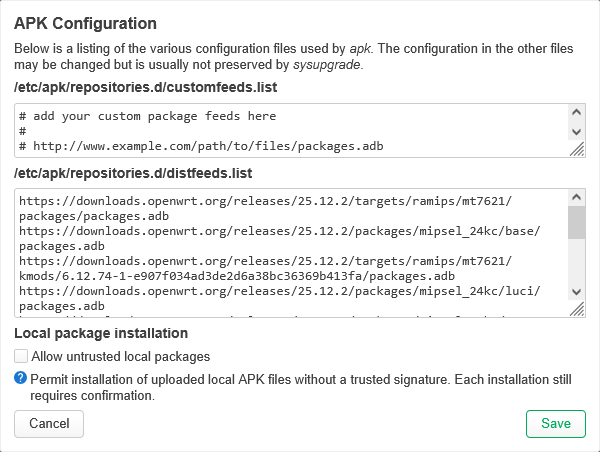
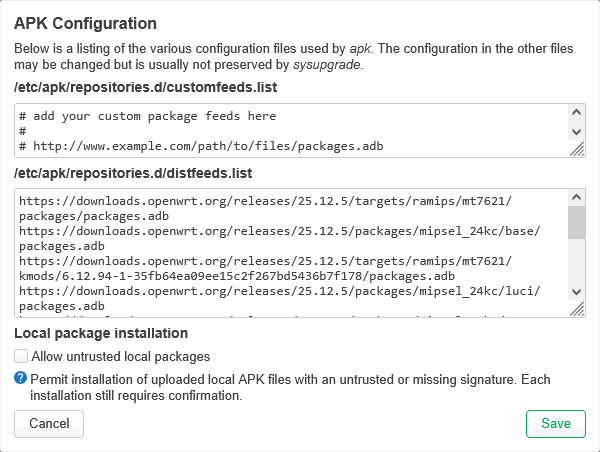
release: prepare OpenWrt 25.12 r2
Update the cumulative patch to signed source e1fb46d, refresh the
OpenWrt 25.12.5 screenshots, and record the exact r2 build and runtime
validation results.

diff --git a/README.md b/README.md
@@ -16,10 +16,10 @@ package maintainer script. The released APK is a rebuilt
 | --- | --- |
 | OpenWrt release line | 25.12 |
 | Upstream base | [`067535eaf51a59582b775a8b588a9b05810f8030`](https://github.com/openwrt/luci/commit/067535eaf51a59582b775a8b588a9b05810f8030) |
-| Patched source | [`4836c113cdbd8c01b4586970d9471541084aaaec`](https://github.com/RzandAl/luci/commit/4836c113cdbd8c01b4586970d9471541084aaaec) |
-| Release tag | `openwrt-25.12-067535e-r1` |
-| APK package version | `26.272.39633~4836c11` |
-| Release APK asset | `luci-app-package-manager-openwrt-25.12-067535e-r1.apk` |
+| Patched source | [`e1fb46d3ecae5ede2eabcfe1792697ac734bb07a`](https://github.com/RzandAl/luci/commit/e1fb46d3ecae5ede2eabcfe1792697ac734bb07a) |
+| Release tag | `openwrt-25.12-067535e-r2` |
+| APK package version | `26.278.01645~e1fb46d` |
+| Release APK asset | `luci-app-package-manager-openwrt-25.12-067535e-r2.apk` |
 | Package architecture | `noarch` |
 
 ## What the patch changes
@@ -30,6 +30,8 @@ package maintainer script. The released APK is a rebuilt
 - Keeps the setting disabled by default.
 - Shows the current **Blocked** or **Allowed** state on the Software page.
 - Keeps the existing confirmation dialog for every uploaded package.
+- Reloads the persisted UCI value if saving the setting fails, so the displayed
+  state cannot remain out of sync with the backend.
 - Adds `--allow-untrusted` and `--force-non-repository` in the backend only
   when all of the following are true:
   - the package manager is `apk`;
@@ -47,8 +49,9 @@ package maintainer script. The released APK is a rebuilt
 | --- | --- |
 | Target | OpenWrt 25.12 with APK |
 | Build | Official OpenWrt 25.12.5 SDK for `ramips/mt7621` |
-| Runtime — Xiaomi Mi Router 3G | OpenWrt 25.12.2 and 25.12.5 (`ramips/mt7621`) |
-| Runtime — Cudy WR3000S v1 | OpenWrt 25.12.5 (`mediatek/filogic`) |
+| Runtime — Xiaomi Mi Router 3G | r2 on OpenWrt 25.12.5; r1 baseline on 25.12.2 (`ramips/mt7621`) |
+| Runtime — Cudy WR3000S v1 | r1 baseline on OpenWrt 25.12.5 (`mediatek/filogic`) |
+| Browser UI | Firefox, Chrome, and Microsoft Edge |
 | Validation | Blocked by default; explicit opt-in and per-upload confirmation required |
 
 The released APK is architecture-independent (`noarch`). Compatibility outside
@@ -97,11 +100,11 @@ The backend scope and operations that remain unaffected are documented in
 ## Release packages
 
 Assets for
-[`openwrt-25.12-067535e-r1`](https://github.com/RzandAl/luci-app-package-manager-untrusted-apk/releases/tag/openwrt-25.12-067535e-r1):
+[`openwrt-25.12-067535e-r2`](https://github.com/RzandAl/luci-app-package-manager-untrusted-apk/releases/tag/openwrt-25.12-067535e-r2):
 
-- [`luci-app-package-manager-openwrt-25.12-067535e-r1.apk`](https://github.com/RzandAl/luci-app-package-manager-untrusted-apk/releases/download/openwrt-25.12-067535e-r1/luci-app-package-manager-openwrt-25.12-067535e-r1.apk)
-- [`luci-app-package-manager-untrusted-upload-067535e.patch`](https://github.com/RzandAl/luci-app-package-manager-untrusted-apk/releases/download/openwrt-25.12-067535e-r1/luci-app-package-manager-untrusted-upload-067535e.patch)
-- [`SHA256SUMS`](https://github.com/RzandAl/luci-app-package-manager-untrusted-apk/releases/download/openwrt-25.12-067535e-r1/SHA256SUMS)
+- [`luci-app-package-manager-openwrt-25.12-067535e-r2.apk`](https://github.com/RzandAl/luci-app-package-manager-untrusted-apk/releases/download/openwrt-25.12-067535e-r2/luci-app-package-manager-openwrt-25.12-067535e-r2.apk)
+- [`luci-app-package-manager-untrusted-upload-067535e.patch`](https://github.com/RzandAl/luci-app-package-manager-untrusted-apk/releases/download/openwrt-25.12-067535e-r2/luci-app-package-manager-untrusted-upload-067535e.patch)
+- [`SHA256SUMS`](https://github.com/RzandAl/luci-app-package-manager-untrusted-apk/releases/download/openwrt-25.12-067535e-r2/SHA256SUMS)
 
 The APK is intentionally untrusted. Verify `SHA256SUMS` and perform the first
 installation from a terminal; see [Installation and rollback](docs/INSTALLATION.md)
@@ -117,10 +120,11 @@ for the complete procedure.
 
 ## Tests and validation
 
-The `r1` release validation covered exact source and patch provenance, clean
+The `r2` release validation covered exact source and patch provenance, clean
 standalone patch application, APK metadata and payload inspection, release
-checksums, and runtime behavior on the devices listed in
-[Compatibility](#compatibility).
+checksums, and the complete blocked and allowed runtime paths on OpenWrt 25.12.5.
+Earlier r1 device results are retained separately in
+[Compatibility](#compatibility) instead of being attributed to the r2 binary.
 
 The complete recorded scope is in [Release validation](docs/VALIDATION.md),
 with reproduction commands in [BUILDING.md](docs/BUILDING.md). The repository CI
@@ -131,7 +135,7 @@ also repeats clean patch application and syntax validation on every change.
 - Development branch:
   [`fix/package-manager-untrusted-upload-067535e`](https://github.com/RzandAl/luci/tree/fix/package-manager-untrusted-upload-067535e)
 - Exact signed commit:
-  [`4836c113cdbd8c01b4586970d9471541084aaaec`](https://github.com/RzandAl/luci/commit/4836c113cdbd8c01b4586970d9471541084aaaec)
+  [`e1fb46d3ecae5ede2eabcfe1792697ac734bb07a`](https://github.com/RzandAl/luci/commit/e1fb46d3ecae5ede2eabcfe1792697ac734bb07a)
 - Standalone source patch:
   [`patches/luci-app-package-manager-untrusted-upload-067535e.patch`](patches/luci-app-package-manager-untrusted-upload-067535e.patch)
 - Related upstream report:

diff --git a/docs/VALIDATION.md b/docs/VALIDATION.md
@@ -1,7 +1,7 @@
 # Release validation
 
 This document records the validation scope for release
-`openwrt-25.12-067535e-r1`. It is a release record, not a compatibility claim
+`openwrt-25.12-067535e-r2`. It is a release record, not a compatibility claim
 for later OpenWrt or LuCI revisions.
 
 ## Environment matrix
@@ -9,8 +9,10 @@ for later OpenWrt or LuCI revisions.
 | Area | Environment |
 | --- | --- |
 | Build | Official OpenWrt 25.12.5 SDK for `ramips/mt7621` |
-| Runtime — Xiaomi Mi Router 3G | OpenWrt 25.12.2 and 25.12.5 (`ramips/mt7621`) |
-| Runtime — Cudy WR3000S v1 | OpenWrt 25.12.5 (`mediatek/filogic`) |
+| r2 runtime — Xiaomi Mi Router 3G | OpenWrt 25.12.5 (`ramips/mt7621`) |
+| Earlier r1 baseline — Xiaomi Mi Router 3G | OpenWrt 25.12.2 (`ramips/mt7621`) |
+| Earlier r1 baseline — Cudy WR3000S v1 | OpenWrt 25.12.5 (`mediatek/filogic`) |
+| Browser UI | Firefox, Chrome, and Microsoft Edge |
 
 The resulting package reports `arch: noarch`; the target SDK was still used to
 resolve and validate the OpenWrt package environment.
@@ -22,7 +24,7 @@ The release was checked against:
 - upstream LuCI base commit
   `067535eaf51a59582b775a8b588a9b05810f8030`;
 - exact patched LuCI commit
-  `4836c113cdbd8c01b4586970d9471541084aaaec`;
+  `e1fb46d3ecae5ede2eabcfe1792697ac734bb07a`;
 - the standalone patch in
   `patches/luci-app-package-manager-untrusted-upload-067535e.patch`;
 - clean standalone patch application to the upstream base;
@@ -35,7 +37,9 @@ Reproduction commands are documented in [BUILDING.md](BUILDING.md).
 The published bundle was checked for:
 
 - matching release checksums;
-- expected APK package name, version, and `noarch` metadata;
+- APK SHA-256
[1 lines of base64/hex data omitted]
+- package version `26.278.01645~e1fb46d` and `noarch` metadata;
 - expected payload paths;
 - valid shell syntax for `package-manager-call`;
 - valid JSON for the RPC ACL;
@@ -50,13 +54,22 @@ Runtime validation covered:
 
 - first installation from a terminal with the required trust flags;
 - the default **Blocked** state;
+- a blocked upload invoking `apk add -- /tmp/upload.apk`, rejected by APK with
+  `UNTRUSTED signature` and exit code 99;
 - explicit opt-in through **Configure APK**;
 - the **Allowed** warning state after opt-in;
 - a separate confirmation for each uploaded APK;
-- successful installation of an untrusted local APK after confirmation.
+- successful installation after confirmation with exactly
+  `apk --allow-untrusted --force-non-repository add -- /tmp/upload.apk`;
+- restoring `luci.package_manager.allow_untrusted_uploads=0` after the test;
+- removal of `/tmp/upload.apk` after package-manager completion.
 
-The same user-visible flow was checked on the Xiaomi and Cudy devices listed in
-the environment matrix.
+The complete r2 flow above was checked on the Xiaomi device running OpenWrt
+25.12.5. The earlier r1 device results remain in the matrix as baseline coverage
+and are not presented as tests of the r2 binary.
+
+The screenshots in this repository were captured from the r2 interface on
+OpenWrt 25.12.5.
 
 ## Continuous validation
 

diff --git a/docs/BUILDING.md b/docs/BUILDING.md
@@ -44,10 +44,10 @@ git -C feeds/luci fetch fork \
     '+refs/heads/fix/package-manager-untrusted-upload-067535e:refs/remotes/fork/fix/package-manager-untrusted-upload-067535e'
 
 git -C feeds/luci switch --detach \
-    4836c113cdbd8c01b4586970d9471541084aaaec
+    e1fb46d3ecae5ede2eabcfe1792697ac734bb07a
 
 test "$(git -C feeds/luci rev-parse HEAD)" = \
-    '4836c113cdbd8c01b4586970d9471541084aaaec'
+    'e1fb46d3ecae5ede2eabcfe1792697ac734bb07a'
 ```
 
 Refresh the package link from the checked-out LuCI feed:
@@ -79,7 +79,7 @@ Locate the result:
 ```sh
 find bin/packages \
     -type f \
-    -name 'luci-app-package-manager-*~4836c11.apk' \
+    -name 'luci-app-package-manager-*~e1fb46d.apk' \
     -print
 ```
 
@@ -88,7 +88,7 @@ find bin/packages \
 Set `PACKAGE_APK` to the path printed above:
 
 ```sh
-PACKAGE_APK='bin/packages/ARCH/luci/luci-app-package-manager-26.272.39633~4836c11.apk'
+PACKAGE_APK='bin/packages/ARCH/luci/luci-app-package-manager-26.278.01645~e1fb46d.apk'
 APK_CHECK_DIR="$(mktemp -d)"
 
 sha256sum "$PACKAGE_APK"
@@ -113,10 +113,10 @@ Inspect the package metadata:
 ./staging_dir/host/bin/apk adbdump "$PACKAGE_APK"
 ```
 
-For the published `r1` artifact, the expected APK SHA-256 is:
+For the published `r2` artifact, the expected APK SHA-256 is:
 
 ```text
[2 lines of base64/hex data omitted]
 ```
 
 ## Validate the standalone patch
@@ -149,14 +149,14 @@ metadata. Check out the exact patched commit when reproducing the released APK.
 
 ## Release checksums
 
-The SDK emits `luci-app-package-manager-26.272.39633~4836c11.apk`. The
+The SDK emits `luci-app-package-manager-26.278.01645~e1fb46d.apk`. The
 published copy has the GitHub-safe, tag-based filename shown below; its content
 and internal package version are unchanged.
 
-The `r1` release bundle contains:
+The `r2` release bundle contains:
 
 ```text
-luci-app-package-manager-openwrt-25.12-067535e-r1.apk
+luci-app-package-manager-openwrt-25.12-067535e-r2.apk
 luci-app-package-manager-untrusted-upload-067535e.patch
 SHA256SUMS
 ```
@@ -164,12 +164,12 @@ SHA256SUMS
 Expected hashes:
 
 ```text
-de487b6d8817ecc12bf057982e1f8e8d760a0ed5a83d56c959af94e0794ec6f5  luci-app-package-manager-openwrt-25.12-067535e-r1.apk
-91e8aeb24e6892897ac5d7298c16be724f737107626af90c7c27ac5df6d5a800  luci-app-package-manager-untrusted-upload-067535e.patch
+eca926ba1a94611df054de07da466937532b96e9f7f5296d6d75a9b929e9bad8  luci-app-package-manager-openwrt-25.12-067535e-r2.apk
+921cb36984cc9b7374e7554fccf59a42d491aef4b657b6da06aa1830f835d670  luci-app-package-manager-untrusted-upload-067535e.patch
 ```
 
 The expected SHA-256 of `SHA256SUMS` itself is:
 
 ```text
[2 lines of base64/hex data omitted]
 ```

diff --git a/docs/INSTALLATION.md b/docs/INSTALLATION.md
@@ -14,15 +14,17 @@ provided by the configured OpenWrt repositories.
 - Root shell access to the router.
 - All three assets from the same GitHub release.
 
-The current release was functionally validated on the devices listed in the
-project [Compatibility](../README.md#compatibility) table.
+The current release was functionally validated in the environment recorded in
+[Release validation](VALIDATION.md). The project
+[Compatibility](../README.md#compatibility) table also retains earlier device
+baseline results.
 
 ## Download and verify
 
 Download these assets from
-[`openwrt-25.12-067535e-r1`](https://github.com/RzandAl/luci-app-package-manager-untrusted-apk/releases/tag/openwrt-25.12-067535e-r1):
+[`openwrt-25.12-067535e-r2`](https://github.com/RzandAl/luci-app-package-manager-untrusted-apk/releases/tag/openwrt-25.12-067535e-r2):
 
-- `luci-app-package-manager-openwrt-25.12-067535e-r1.apk`
+- `luci-app-package-manager-openwrt-25.12-067535e-r2.apk`
 - `luci-app-package-manager-untrusted-upload-067535e.patch`
 - `SHA256SUMS`
 
@@ -36,7 +38,7 @@ Both listed files must report `OK`. Do not continue if a checksum fails or the
 files came from different release tags.
 
 The published APK uses a GitHub-safe, tag-based filename. Its internal package
-version remains `26.272.39633~4836c11`.
+version remains `26.278.01645~e1fb46d`.
 
 ## Install
 
@@ -47,7 +49,7 @@ package manager cannot yet install this untrusted local APK:
 apk add \
     --allow-untrusted \
     --force-non-repository \
-    ./luci-app-package-manager-openwrt-25.12-067535e-r1.apk
+    ./luci-app-package-manager-openwrt-25.12-067535e-r2.apk
 ```
 
 The APK replaces the stock `luci-app-package-manager`; it does not install a

diff --git a/docs/SECURITY.md b/docs/SECURITY.md
@@ -26,6 +26,12 @@ separate confirmation for every uploaded APK before installation begins.
 The frontend cannot submit arbitrary trust flags. The backend derives the
 additional flags only from the exact operation, argument, and UCI state above.
 
+The **Blocked** state blocks the trust bypass, not every local APK upload. LuCI
+does not attempt to reproduce APK signature verification in the browser. With
+the option disabled, the backend runs the normal `apk add -- /tmp/upload.apk`;
+a trusted package may install, while an unsigned or otherwise untrusted package
+is rejected by `apk`.
+
 ## Operations that remain unaffected
 
 The trust bypass is not applied to:
